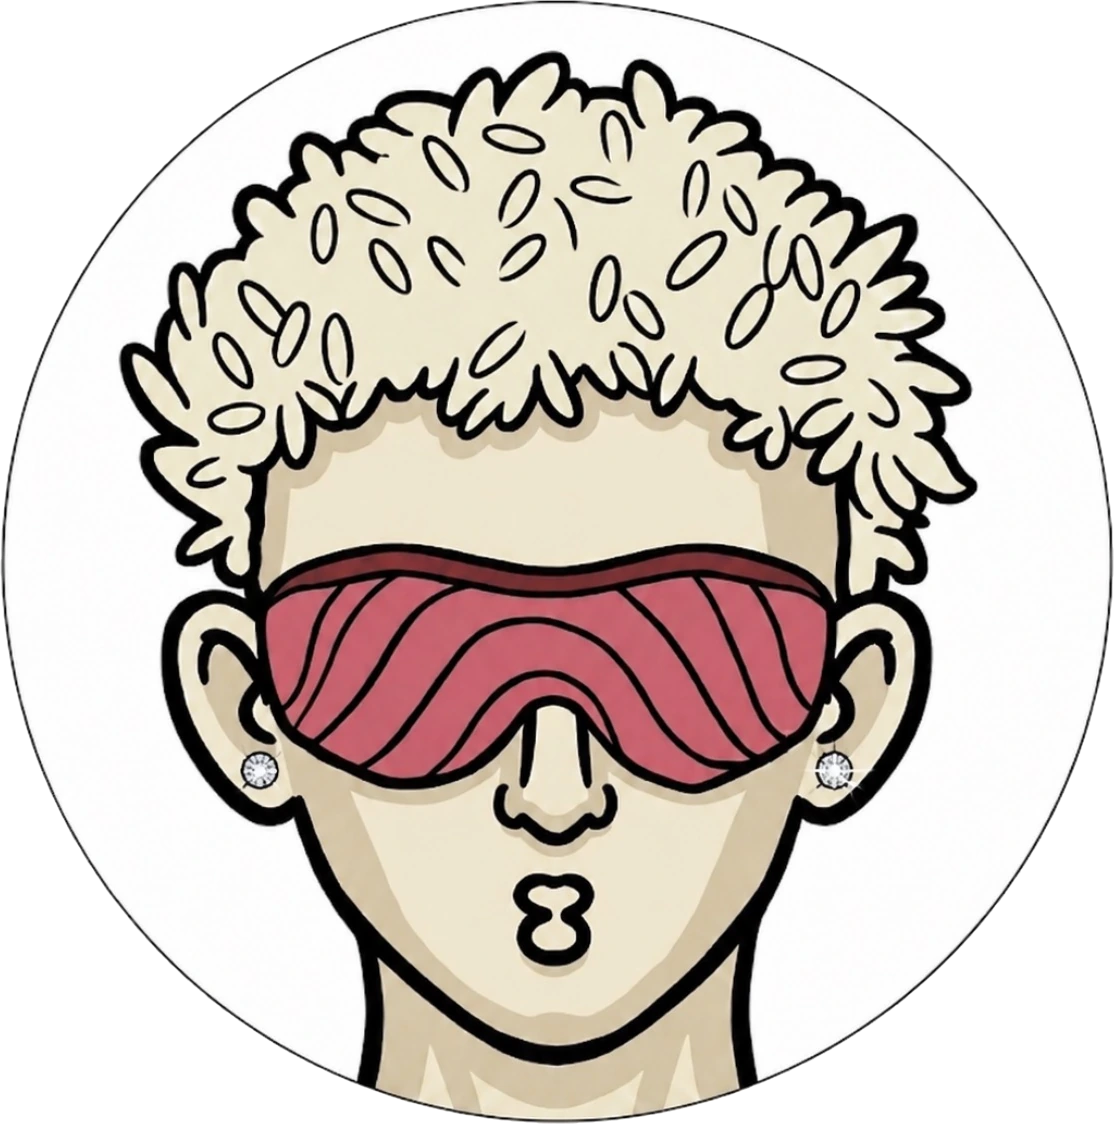
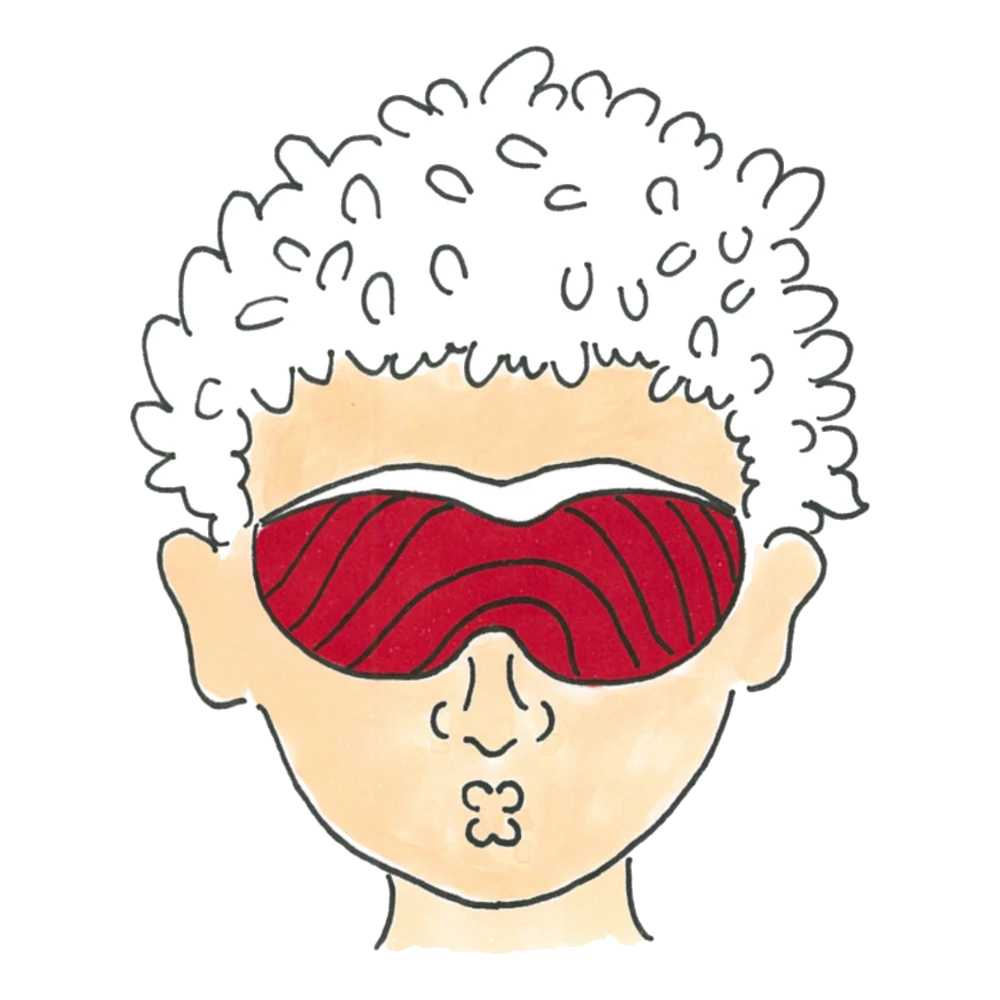
新しいアイコンに差し替え。06ページに代官山の写真。ノートの字を手書きに
- ナオトさんの新しいアイコンを、ヘッダーのロゴ・ABOUTの表紙・FAQの顔・favicon すべてに
  白地は外から塗りつぶして抜き、髪の中は行ごとに埋め戻した（線のすき間から抜けるため）
  顔の外枠を測って正方に切り出し（1617px角）。枠線は入れない
- ノート06ページの絵を、代官山ヴィンテージショップのライブドローイング写真に差し替え
  貼り込み（マステ＋白フチ＋キャプション）の見立て。インクと違い紙には重ねない
- ノートとその続きの字を Zen Kurenaido に。太さが1種類なので、強い字は線を太らせる
- 8ページすべてで枠からのはみ出しなし（SP 390×844／PC 1440×900）

diff --git a/about/index.html b/about/index.html
@@ -18,7 +18,7 @@
 <meta property="og:image:height" content="630">
 <meta name="twitter:card" content="summary_large_image">
 <!-- /@meta -->
-<link href="https://fonts.googleapis.com/css2?family=Anton&family=Noto+Sans+JP:wght@400;900&display=swap" rel="stylesheet">
+<link href="https://fonts.googleapis.com/css2?family=Anton&family=Noto+Sans+JP:wght@400;900&family=Zen+Kurenaido&display=swap" rel="stylesheet">
 <style>
 :root{--ink:#14110F;--ink-40:rgba(20,17,15,.4);--ink-20:rgba(20,17,15,.2);--ink-30:rgba(20,17,15,.3);--ink-12:rgba(20,17,15,.12);
   --paper:#E9E8E6;--vermil:#D3381C;
@@ -166,6 +166,13 @@ body::after{content:"";position:fixed;inset:0;pointer-events:none;z-index:95;
   mix-blend-mode:multiply;display:block}
 .art--bleed{margin-bottom:calc(var(--lh) * -1)}
 
+/* ノートの中とその続きは、ペンで書いた字に寄せる。英字の見出しは Anton のまま。
+   太さが1種類しかない書体なので、強い字は線を太らせて「なぞった」感じを出す */
+.book,.sheetpaper{font-family:"Zen Kurenaido","Noto Sans JP",sans-serif}
+.book :is(b,strong,.kick,.pull,.tate,.st-b,.p3-cap,.hand,.kw span,.n b,.cover-label b),
+.sheetpaper :is(b,strong,.sechead,.hand,.tix__t){font-weight:400;
+  -webkit-text-stroke:.5px currentColor;paint-order:stroke fill}
+
 /* ===== P01 ノートの表紙 ===== */
 .cover-label{grid-column:1 / 8;grid-row:3 / 11;rotate:-1.4deg;
   background:#FCFBF8;border:2px solid var(--ink);padding:calc(var(--lh)*.7) calc(var(--lh)*.8);
@@ -238,7 +245,17 @@ body::after{content:"";position:fixed;inset:0;pointer-events:none;z-index:95;
 .pull i{font-style:normal;color:var(--vermil)}
 .p6-marg{grid-column:1 / 3;grid-row:3 / 7;writing-mode:vertical-rl;justify-self:center;
   font-family:var(--font-en);font-size:calc(var(--lh)*.5);letter-spacing:.2em;color:var(--vermil)}
-.p6-fig{grid-column:6 / 13;grid-row:9 / 18}
+/* 貼った写真。インクの貼り込みと違って、紙に重ねず普通に置く */
+.snap{grid-column:6 / 13;grid-row:9 / 18;margin:0;position:relative;rotate:1.3deg;
+  background:#FCFBF8;padding:calc(var(--lh)*.26);
+  box-shadow:0 calc(var(--lh)*.18) calc(var(--lh)*.48) rgba(20,17,15,.16);
+  display:flex;flex-direction:column;gap:calc(var(--lh)*.18);overflow:hidden}
+.snap img{flex:1 1 auto;min-height:0;width:100%;object-fit:cover;object-position:54% 40%;
+  display:block}
+.snap figcaption{flex:0 0 auto;font-size:calc(var(--lh)*.38);line-height:calc(var(--lh)*.6);
+  text-align:center;color:var(--ink-40)}
+.snap i{position:absolute;top:calc(var(--lh)*-.18);left:50%;translate:-50% 0;rotate:-2deg;
+  width:46%;aspect-ratio:480/69;background:var(--im-tape) center/100% 100% no-repeat;z-index:2}
 
 /* ===== P07 画材をスケッチした日 ===== */
 .tool{display:flex;flex-direction:column;gap:calc(var(--lh)*.16);align-self:end}
@@ -607,7 +624,10 @@ html:not(.js) .tix__tearoff{display:none}
           <p class="runner">ROOTS</p>
           <p class="p6-marg">NOW</p>
           <p class="pull">アナログならではの線と、<br>偶然生まれる表情を<i>作品にする</i>。</p>
-          <div class="art p6-fig art--bleed"><img src="../naoto-works/figures-solid/fig-a-14@180w.webp" alt="" loading="lazy" decoding="async"></div>
+          <figure class="snap"><i aria-hidden="true"></i>
+            <img src="../naoto-works/photo/daikanyama-live@640w.webp" alt="代官山のヴィンテージショップでライブドローイングをする大高直人" loading="lazy" decoding="async">
+            <figcaption>代官山／ライブドローイング</figcaption>
+          </figure>
           <span class="folio">06</span>
         </div>
       </section>
